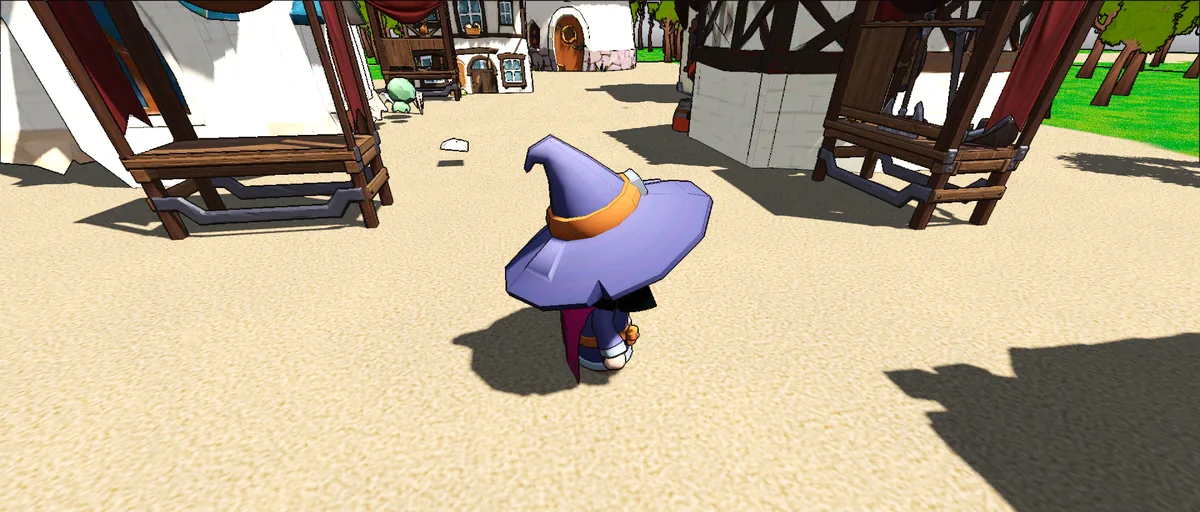
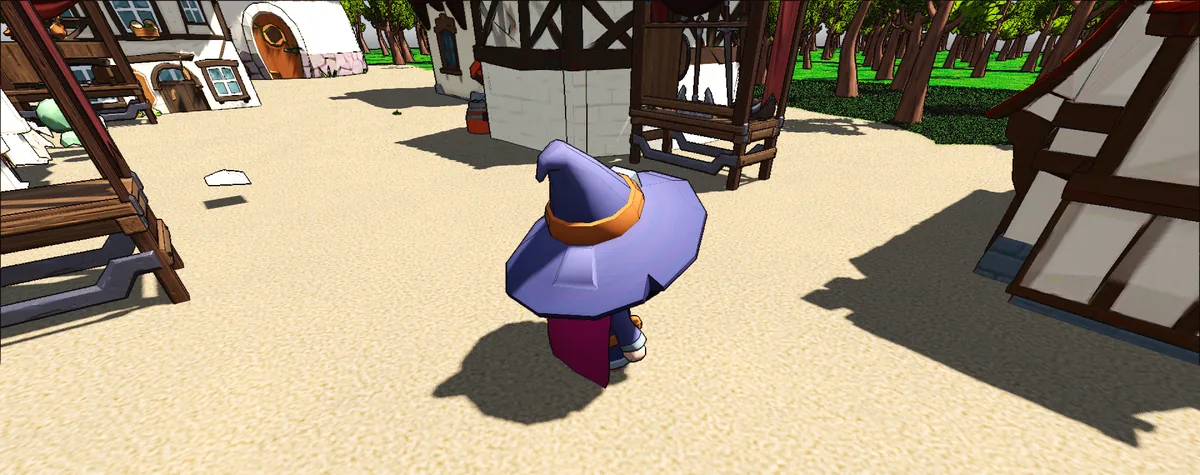
Reshoot with the foliage turned up
The first pass used the shipping foliage settings, which are a phone's
frame budget: trees became billboards at 25 m and the grass was off. The
harness now turns all three knobs up for the camera, so these are the
same world with its trees solid out to 150 m, impostors running past
anything the map contains, and shell grass on.

Three shots now, the wood leading: trunks on every side under the
canopy, then the market square with the wood standing behind the roofs,
then the square again with a villager talking.

Claude-Session: https://claude.ai/code/session_01SWQBuPbf88LR7SyZbfmBPW

diff --git a/cozy-necromancy/index.html b/cozy-necromancy/index.html
@@ -102,13 +102,18 @@
       </div>
       <div class="faces">
         <figure class="face wide">
-          <img src="/assets/img/cn-square.webp" width="1200" height="512" loading="lazy"
-               alt="In-game: the market square in Willowmere, seen over the shoulder of the necromancer in her wide purple hat — market stalls with red awnings, timbered houses and a wood beyond.">
-          <figcaption>The market square, from the current build</figcaption>
+          <img src="/assets/img/cn-wood.webp" width="1200" height="562" loading="lazy"
+               alt="In-game: the necromancer in her wide purple hat standing under the canopy in the wood east of Willowmere, trunks on every side and grass running back to the treeline.">
+          <figcaption>The wood east of the village</figcaption>
         </figure>
         <figure class="face wide">
-          <img src="/assets/img/cn-chatter.webp" width="1200" height="512" loading="lazy"
-               alt="In-game: the same square, with a speech bubble over a villager off to one side reading &ldquo;Old Jasper: What a lovely day.&rdquo;">
+          <img src="/assets/img/cn-square.webp" width="1200" height="475" loading="lazy"
+               alt="In-game: the market square — stalls with red awnings, timbered houses, and the wood standing behind the roofs.">
+          <figcaption>The market square</figcaption>
+        </figure>
+        <figure class="face wide">
+          <img src="/assets/img/cn-chatter.webp" width="1200" height="675" loading="lazy"
+               alt="In-game: the square again, with a speech bubble over a villager off to one side reading &ldquo;Old Jasper: What a lovely day.&rdquo;">
           <figcaption>A villager says something unprompted</figcaption>
         </figure>
       </div>

diff --git a/ASSETS.md b/ASSETS.md
@@ -30,7 +30,7 @@ Both are under the SIL Open Font License; the license files are in
 
 | file | source | notes |
 | --- | --- | --- |
-| `cn-square.webp`, `cn-chatter.webp` | Captured from the game: [nvoorhies/cute-fantasy](https://github.com/nvoorhies/cute-fantasy) `scripts/capture_promo.sh` (shots `village` and `chatter`) | 1200×512 crops of a 1920×1080 grab. Re-run that script rather than editing them; it boots the real world scene, so a shot always matches the build it came from |
+| `cn-wood.webp`, `cn-square.webp`, `cn-chatter.webp` | Captured from the game: [nvoorhies/cute-fantasy](https://github.com/nvoorhies/cute-fantasy) `scripts/capture_promo.sh` (shots `wood`, `village`, `chatter`) | 1200px-wide crops of 1920×1080 grabs, taken with the foliage turned up past its shipping values (3D trees to 150 m, impostors to 700, shell grass on) — the harness does that itself, so a re-run reproduces them. Edit the harness, not the images |
 | `cn-key.webp`, `cn-key-560.webp` | cute-fantasy `icon.png` | The game's key art, resized. **Model-generated, like the character portraits in `sprites/portraits/`** — so nothing on the page describes the art as painted or drawn by hand. `necro-key.webp` on the home page is the same source |
 | `cn-og.jpg` | The key art on a dusk field | 1200×630 social preview |
 
